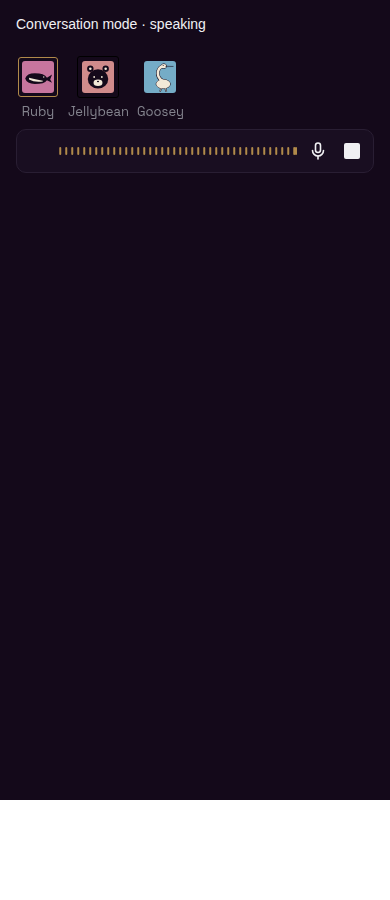
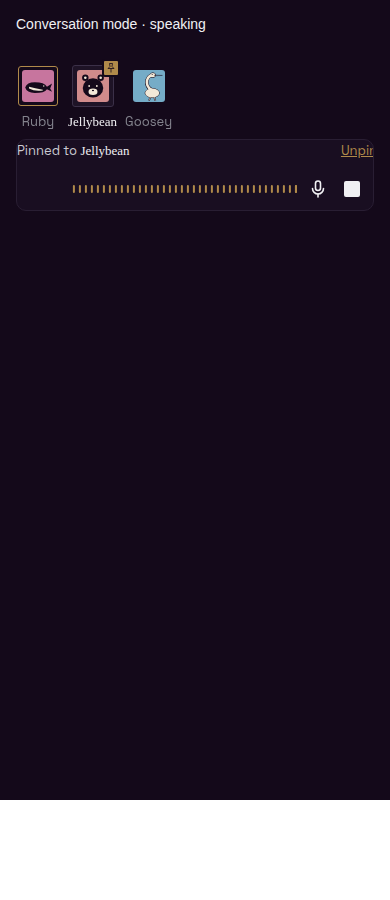
Align conversation browser proof with private agent pins

Changed region(s): [[0.0308, 0.0622, 0.7692, 0.1867], [0.8615, 0.1556, 0.9538, 0.2178], [0.8, 0.1556, 0.8308, 0.2178]]

diff --git a/apps/mobile/scripts/composer-conversation-proof.tsx b/apps/mobile/scripts/composer-conversation-proof.tsx
@@ -23,7 +23,8 @@ function Proof() {
   const [picker, setPicker] = useState(false);
   const [pending, setPending] = useState<PickedChatAttachment[]>([]);
   const [value, setValue] = useState('');
-  const [target, aim] = useState('ruby');
+  const [target, setTarget] = useState<string | null>(null);
+  const aim = (agent: string) => setTarget(current => current === agent ? null : agent);
   const voice = { call: phase === 'ended' ? null : { id: 'proof' }, connecting: phase === 'connecting',
     agents: [{ kind: 'agent', pubkey: 'ruby', name: 'Ruby', face: null }, { kind: 'agent', pubkey: 'jellybean', name: 'Jellybean', face: null }, { kind: 'agent', pubkey: 'goose', name: 'Goosey', face: null }],
     speaker: phase === 'speaking' ? 'ruby' : null, target, level: phase === 'silence' ? 0 : 0.4,
@@ -46,21 +47,26 @@ async function run() {
   await pause();
   const selected = () => document.querySelector<HTMLElement>('[aria-label="Speak to Jellybean"]');
   selected()!.click(); await pause();
-  const outlined = () => getComputedStyle(selected()!.firstElementChild!).borderTopColor ===
-    'rgb(0, 0, 0)';
-  check('CONVERSATION-2: tap selects Jellybean with an avatar outline', outlined());
-  const selectedLabel = Array.from(selected()!.querySelectorAll<HTMLElement>('*')).find(element => element.textContent === 'Jellybean');
-  check('CONVERSATION-2: selected name has no underline', !!selectedLabel && !getComputedStyle(selectedLabel).textDecorationLine.includes('underline'));
+  const pinnedFace = () => byID('voice-pin-jellybean')?.parentElement;
+  const pinned = () => !!pinnedFace() &&
+    getComputedStyle(pinnedFace()!).backgroundColor !== 'rgba(0, 0, 0, 0)';
+  check('CONVERSATION-2: tap pins Jellybean with a filled tile and badge', pinned());
+  check('CONVERSATION-2: pin caption names Jellybean', !!byID('voice-pin-line')?.textContent?.includes('Pinned to Jellybean'));
+  const selectedLabel = Array.from(selected()!.parentElement!.querySelectorAll<HTMLElement>('*')).find(element => element.textContent === 'Jellybean');
+  check('CONVERSATION-2: pinned name has no underline', !!selectedLabel && !getComputedStyle(selectedLabel).textDecorationLine.includes('underline'));
+  selected()!.click(); await pause();
+  check('CONVERSATION-2: second tap unpins', !byID('voice-pin-jellybean') && !byID('voice-pin-line'));
+  selected()!.click(); await pause();
   const latest = () => byID('waveform-live-level')!;
   check('CONVERSATION-3: visible newest bar is quiet in silence', getComputedStyle(latest()).height === '2px');
   for (const phase of ['silence', 'connecting', 'listening', 'speaking']) {
     flushSync(() => setPhase(phase));
     if (phase === 'listening') check('CONVERSATION-3: volume changes the visible newest bar before timers advance', parseFloat(getComputedStyle(latest()).height) > 2);
     await pause();
-    check(`${phase}: tap stays selected`, outlined());
+    check(`${phase}: pin stays selected`, pinned());
     const faceColor = (name: string) => getComputedStyle(document.querySelector<HTMLElement>(`[aria-label="Speak to ${name}"]`)!.firstElementChild!).borderTopColor;
     check(`${phase}: inactive agent has no frame`, faceColor('Goosey') === 'rgba(0, 0, 0, 0)');
-    if (phase === 'speaking') check('CONVERSATION-2: speaking frame is brass and selection stays black', getComputedStyle(byID('voice-speaking-frame-ruby')!).borderTopColor !== faceColor('Jellybean'));
+    if (phase === 'speaking') check('CONVERSATION-2: speaking frame and pin badge remain brass', getComputedStyle(byID('voice-speaking-frame-ruby')!).borderTopColor === getComputedStyle(byID('voice-pin-jellybean')!).backgroundColor);
     if (phase === 'connecting') {
       check('connecting: startup glyph replaces waveform until audio is ready', !!byID('voice-startup-loader') && !latest());
       const control = byID('chat-conversation')!;

diff --git a/apps/mobile/sources/buzz/button-color.guard.test.ts b/apps/mobile/sources/buzz/button-color.guard.test.ts
@@ -47,6 +47,8 @@ const decorativeAccentFills = new Set([
   // The center point of the outlined attention glyph, not the button plate.
   // The running call's status dot; Join uses a separate neutral plate.
   'components/buzz/VoiceCallCard.tsx:dot',
+  // The approved non-interactive pin badge overlays a neutral avatar tile.
+  'components/buzz/VoiceBar.tsx:pinBadge',
 ]);
 
 function filesUnder(directory: string): string[] {

diff --git a/apps/mobile/evidence/conversation-composer/README.md b/apps/mobile/evidence/conversation-composer/README.md
@@ -9,14 +9,14 @@ npx vitest run sources/components/buzz/ConversationComposer.conversation.browser
 ```
 
 The proof checks connected silence, connection pending, listening and agent speech;
-all controls remain available. It taps Jellybean, verifies the selected avatar outline without an underlined name
-and persistent selected state across those phases, and checks that the existing scrolling waveform retains a live bar at its
+all controls remain available. It taps Jellybean, verifies the filled pinned tile, brass badge and caption without an underlined name,
+taps again to unpin, then pins again and checks persistent pinned state across those phases, and checks that the existing scrolling waveform retains a live bar at its
 visible newest edge. A level update changes that bar in the same synchronous
 render, before any history sample or timer advances. History keeps its existing
 glide and 120 ms spacing, without attack/release smoothing. It then ends the call and sends a staged document with the next message,
 reusing the upload. Both themes print RESULT PASS. Screenshots show Ruby speaking
-while Jellybean remains selected. Jellybean has a black selection frame; Ruby has a pulsing brass speaking frame.
-Inactive Goosey has no frame. Speaking takes precedence when the selected agent speaks.
+while Jellybean remains selected. Jellybean has a filled tile and brass pin badge; Ruby has a pulsing brass speaking frame.
+Inactive Goosey has no frame. The pin badge remains visible when the pinned agent speaks.
 The production HullLivePulse respects reduced motion and app backgrounding.
 
 Reproductions CONVERSATION-2 (tap selection) and CONVERSATION-3 (live waveform)
